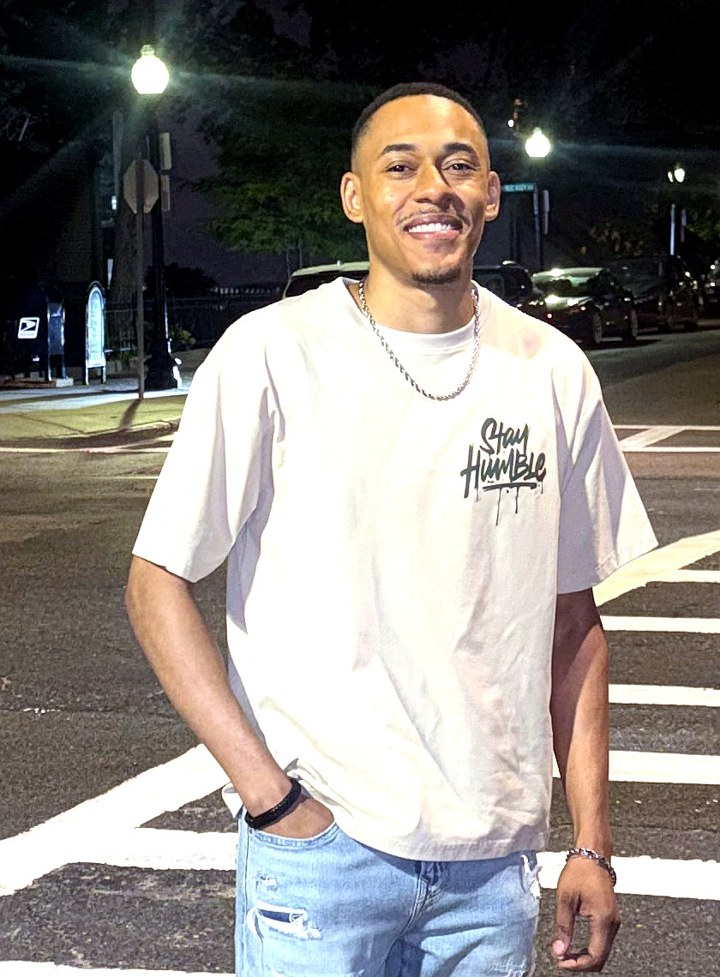
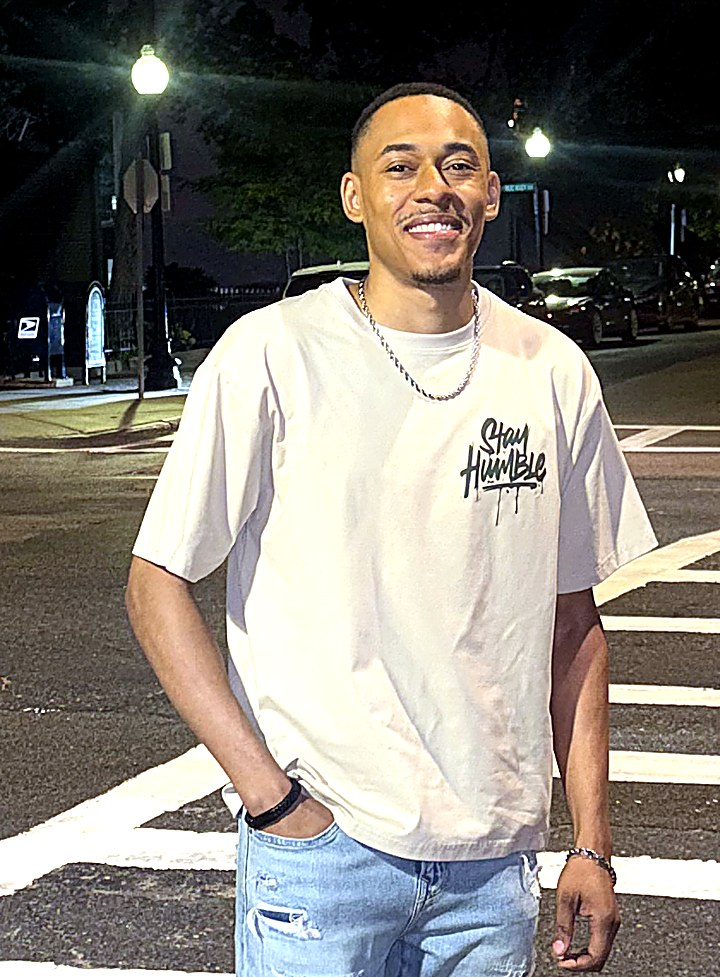
Sharper founder photos: tight face crop for the strip circle
The strip's 82px circle was showing a small face from the waist-up source. Cut a
tight head-and-shoulders crop from the full-res original (images/aj-face.jpg) so the
face fills the circle and reads clearly; recentered object-position. Re-processed the
waist-up (images/aj.jpg) for the founder section with a crisper pipeline (gentler
brightness, unsharp mask). Both from the same original, clarity improved.

Claude-Session: https://claude.ai/code/session_017AdY6DNoeTH8aSgMPKoweq

diff --git a/index.html b/index.html
@@ -107,7 +107,7 @@
   /* founder strip (R13 §3) — first-screen introduction; hidden until the real photo loads */
   .founder-strip { background: var(--ground); border-bottom: 1px solid var(--hairline); padding: 28px 24px; }
   .fs-inner { display: flex; align-items: center; gap: 20px; max-width: 840px; margin: 0 auto; }
-  .fs-photo { width: 82px; height: 82px; border-radius: 50%; object-fit: cover; object-position: 50% 12%; flex-shrink: 0; border: 1px solid var(--hairline); }
+  .fs-photo { width: 82px; height: 82px; border-radius: 50%; object-fit: cover; object-position: 50% 22%; flex-shrink: 0; border: 1px solid var(--hairline); }
   .fs-copy { font-size: 15px; line-height: 1.65; color: var(--muted); margin: 0; }
   .fs-copy b { color: var(--text); }
   .fs-link { color: var(--blue); text-decoration: none; font-weight: 600; white-space: nowrap; }
@@ -903,7 +903,7 @@
 <!-- [FS] FOUNDER STRIP (R13 §3) — hidden until images/aj.jpg loads -->
 <section class="founder-strip" id="founderStrip" hidden="" aria-label="About the founder">
 <div class="shell fs-inner">
-<img id="ajPhoto" class="fs-photo" src="images/aj.jpg" alt="AJ Dent, founder of Take Notes Capital" width="82" height="82" onload="var s=document.getElementById('founderStrip');if(s)s.removeAttribute('hidden')" onerror="var s=document.getElementById('founderStrip');if(s)s.remove()"/>
+<img id="ajPhoto" class="fs-photo" src="images/aj-face.jpg" alt="AJ Dent, founder of Take Notes Capital" width="82" height="82" onload="var s=document.getElementById('founderStrip');if(s)s.removeAttribute('hidden')" onerror="var s=document.getElementById('founderStrip');if(s)s.remove()"/>
 <p class="fs-copy"><b>I'm AJ Dent.</b> I buy distressed loans, the ones stuck between a borrower who fell behind and a bank that wants them gone. I turn that into a win-win for the borrower and the investor, secured by real estate the whole way. <a class="fs-link" href="#founder">More about me →</a></p>
 </div>
 </section>
